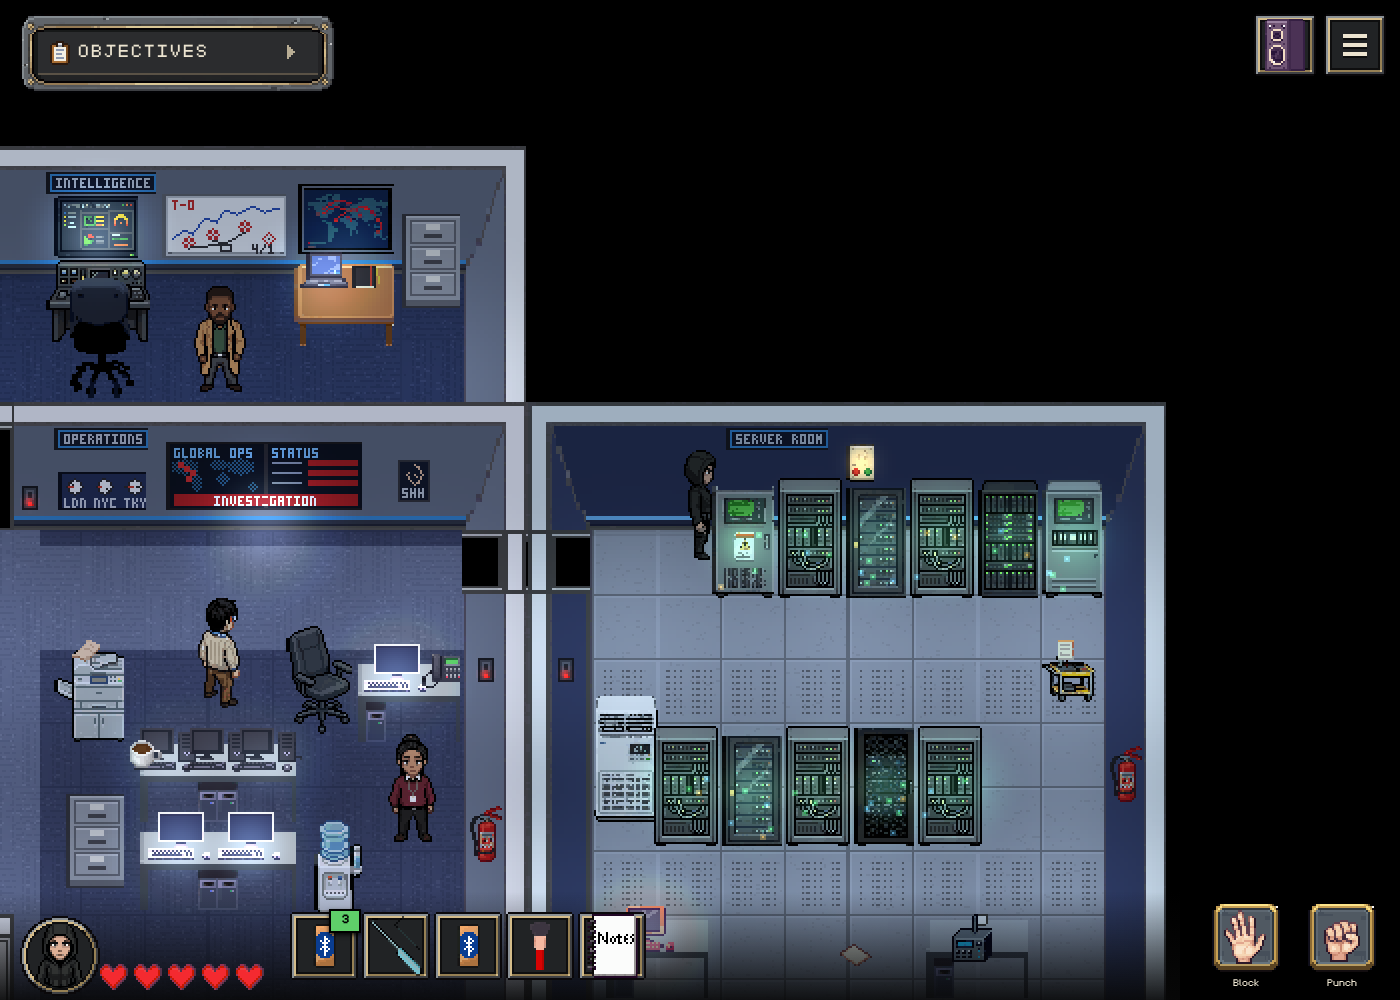
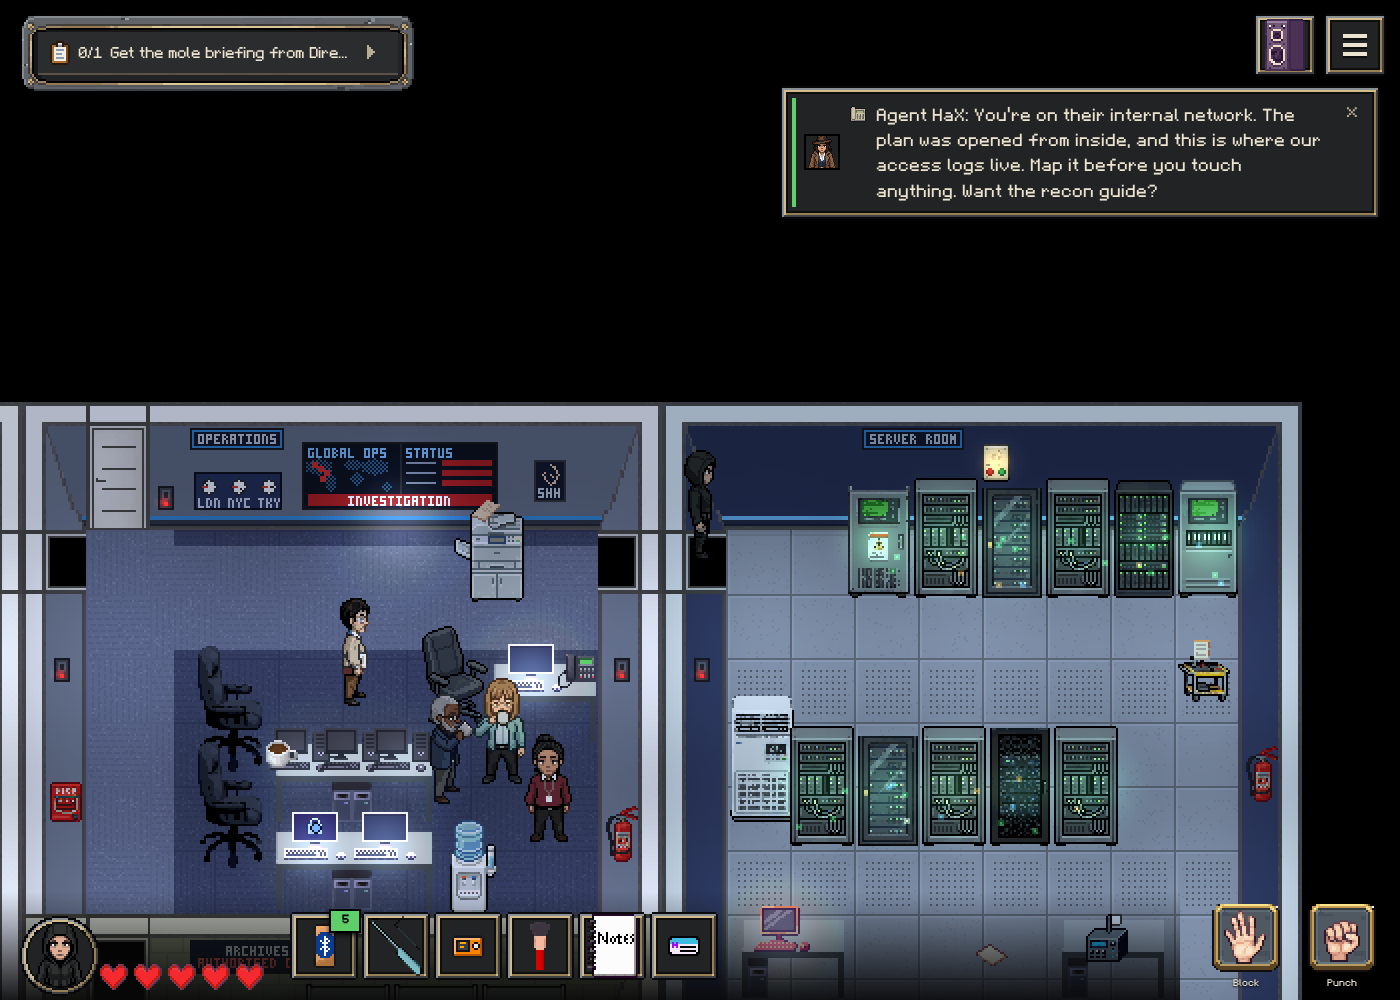
m08 walkthrough: release refresh (F punch / hold Q block, badge printer hands the badge to inventory, Director lab-door refusals, Not yet at the disposition, Nightshade reload resume, relief watch officers, Field Console name; retake server room, add Operations Floor shot)

diff --git a/_labs/safetynet/m08_the_mole.md b/_labs/safetynet/m08_the_mole.md
@@ -69,7 +69,7 @@ You do not need any prior knowledge before you start. The first encoding is taug
 3. \==action: Go north to the Director's office and talk to Director Magnus Netherton==.
 4. \==action: Open your phone whenever you are unsure==. Agent HaX offers hints and field guides as you go.
 
-The mission takes about 60 to 75 minutes. Your progress, evidence and unlocked rooms are kept between sessions.
+The mission takes about 70 minutes. Your progress, evidence and unlocked rooms are kept between sessions.
 
 > Tip: A natural stopping point for a 60-minute class is once you have named the leak to the Director and hold the code for the interrogation suite. The server-room work and the confrontation make a good second session.
 
@@ -86,11 +86,11 @@ Agent HaX's phone is your help system. Open it and you will see options that app
 - Contextual hints, such as **[What does the Director need from me?]**, **[Where would the door logs be?]**, **[How do I get into the server room?]** and **[How do I get into the interrogation suite?]**. HaX answers from where you are in the investigation, so asking again later gives a different answer.
 - Field guides, the in-universe lab sheets. Choose **[I need a field guide.]** and pick the one you want. A guide appears on that menu only once you have reached the challenge it covers. The decoding guide is covered in the stages below.
 
-> Tip: Press **Q** to switch between your fists and your open hand. You need the open hand to use things. If you strike someone by accident, HaX texts you how to put the fists away.
+> Tip: Combat is real but rarely needed. To fight, press **F** (or the Punch button) to punch, and keep pressing for a harder hit. Hold **Q** (or the Block button) to block. HaX reminds you of both the first time you strike someone. Anyone you knock out stays down and will not talk to you again, and you cannot undo it.
 
 > Tip: The locks in this building want exact values. A password is case-sensitive, with no extra spaces. A PIN is four digits. Copy decoded text with the mouse rather than retyping it.
 
-> Warning: The Director wants this done quietly. Accusing someone out loud, being seen picking a locker, or knocking out a bystander gets round the floor, and the person you are hunting hears it. Several choices in the game carry this cost, and the stages below say where. None of them locks you out of finishing the mission.
+> Warning: The Director wants this done quietly. Accusing someone out loud, being seen picking a locker, or knocking out a bystander (including the night-duty officers on the Operations Floor) gets round the floor, and the person you are hunting hears it. Several choices in the game carry this cost, and the stages below say where. None of them locks you out of finishing the mission.
 
 ### Warm-up: Your First CyberChef Recipe {#warm-up}
 
@@ -385,9 +385,11 @@ The lockers hold a hardware token, a boarding-pass stub and a folded sheet, a pa
 <details markdown="1">
 <summary>Nudge</summary>
 
-HaX's **[What does the Director need from me?]** option checks your progress for you and tells you the first thing missing: the audit, a clock, or a confirmed row.
+HaX's **[What does the Director need from me?]** option checks your progress for you and tells you the first thing missing: the audit, a clock, or a confirmed row. The mission task says the same thing: get the suspects to confirm their door rows, then name the leak on evidence.
 
-When you have all three, choose **[I can name the leak, sir.]** and the Director asks four questions: when the plan was opened, which of the three was behind the lab door at that minute, why not the other man who badged through the same door, and why trust Phantom's printout.
+If you go to the Director too early, he turns you away with a different line each time, and the later ones name Vector and Nightshade and say where to find them (Vector on the Operations Floor, Nightshade in the Crypto Lab). Phantom will tell you his own printout is not proof, but he is not on the lab door, so asking him gets you nowhere.
+
+When you have all three, choose **[I can name the leak, sir.]** and the Director asks four questions: when the plan was opened, which of the three was behind the lab door at that minute, why not the other man who badged through the same door, and why a second printout from Phantom agrees with it.
 
 Each question has one answer that follows the evidence. The wrong ones are the tempting readings: the nearest time, the person you already suspect, or a person's desk. **[Let me read it again.]** is free at every step, so use it and go back to the printout.
 
@@ -415,7 +417,7 @@ Once he has the name, he gives you the code for the interrogation suite and poin
 
 **Where:** the Server Room, east of the Operations Floor. **Lock:** an RFID card reader. **Goal:** get in.
 
-![The Server Room, with the server-room badge reader already passed]({{ site.baseurl }}/assets/images/safetynet/m08_the_mole/07-server-room-entry.png)
+![The Server Room, reached with the Printed Server-Zone Badge now in the inventory bar; the night-duty officers stand at the cooler on the Operations Floor]({{ site.baseurl }}/assets/images/safetynet/m08_the_mole/07-server-room-entry.png)
 
 > Hint: The reader wants a card that opens the server zone. The Director has one, and he is not going to hand it over. There is also a quieter route from the lobby that someone left out in the open.
 
@@ -433,7 +435,7 @@ HaX's **[How do I get into the server room?]** option explains the card and the 
 <details markdown="1">
 <summary>Nudge: the Visitor Badge Printer</summary>
 
-At reception, the **Visitor Badge Printer** has a **Printed Server-Zone Badge** in its output tray, behind a four-digit facilities PIN. The PIN is on the sticky note in the Break Room. This route needs no interview and no cloning, and it is a bit of a joke about how the building looks after its own secrets.
+At reception, the **Visitor Badge Printer** is still logged in from the day shift and has printed a server-zone badge, behind a four-digit facilities PIN. The PIN is on the sticky note in the Break Room. A correct PIN prints the **Printed Server-Zone Badge** straight into your inventory; there is no tray to open. This route needs no interview and no cloning, and it is a bit of a joke about how the building looks after its own secrets.
 
 </details>
 
@@ -452,14 +454,14 @@ At reception, the **Visitor Badge Printer** has a **Printed Server-Zone Badge** 
 <summary>Steps: the printer</summary>
 
 1. \==action: Read the Post-It On The Coffee Machine== for the facilities PIN.
-2. \==action: Enter the PIN at the Visitor Badge Printer in the main lobby== and take the **Printed Server-Zone Badge**.
+2. \==action: Enter the PIN at the Visitor Badge Printer in the main lobby==. The **Printed Server-Zone Badge** goes straight into your inventory.
 3. \==action: Use the badge at the Server Room reader==.
 
 </details>
 
 > Warning: The clone only counts once you press Save. If you close the cloner early, the Director's menu offers the clone again and you can redo it. He says plainly that whatever you carry, he did not see it.
 
-Inside the Server Room are the **Evidence Relay Terminal**, where recovered evidence is submitted, a **Server Access Log (excerpt)** left by the rack, and the repository server. The excerpt is an auth-log printout with the account redacted. It gives a terminal and a time, which is a second source for the minute the plan was opened.
+Inside the Server Room are the **Evidence Relay Terminal**, where recovered evidence is submitted, a **Server Access Log (excerpt)** left by the rack, and the **Field Console (Kali)** racked beside the repository server. The excerpt is an auth-log printout with the account redacted. It gives a terminal and a time, which is a second source for the minute the plan was opened.
 
 > Note: The server work has its own sheet, so you can play the rest spoiler-free and tackle the repository server yourself. Open [VM Technical Steps](https://cliffe.github.io/HacktivityLabSheets/labs/safetynet/m08-the-mole-vm-technical-steps/) when you want the hints for it.
 
@@ -505,7 +507,7 @@ The **Personnel Print Job -- Director's Investigation Request** in the Operation
 
 The safe opens in its own framed window and holds five items: the **Portland Intercept**, the **Interrogation Suite Code Card** and a sealed file on each of the three suspects. The card carries the code for the keypad. The pick kit cannot open a PIN lock, so there is no skipping this.
 
-If the Director already named the leak on the evidence, he has given you the code aloud, and **[The suite code again, sir?]** repeats it. You do not need the safe for that.
+If the Director already named the leak on the evidence, he has given you the code aloud, and **[The suite code again, sir?]** repeats it. You do not need the safe for that. The sealed evaluation of Nightshade in the safe is Dr Okafor's; the Director points you to it before you face him, and stops mentioning it once you have it.
 
 **Learn it:** ==action: Read the margin note on the printout aloud== and ask who it blames. Then ask why a policy that tells people to choose their own code ends in this.
 
@@ -541,7 +543,9 @@ HaX's **[Why isn't he in the interrogation room yet?]** option explains why the 
 <details markdown="1">
 <summary>Nudge: the conversation</summary>
 
-The scene cannot be closed once it starts. A RECORDING lamp over the door lights for the scene. You can ask the questions in any order. At the end you choose what happens to the leak. The Detention Disposition Screen on the wall only shows the result.
+The scene cannot be closed once it starts. A RECORDING lamp over the door lights for the scene. You can ask the questions in any order. At the end you choose what happens to the leak. The Detention Disposition Screen on the wall only shows the result. If you reload the page mid-scene, you come back to the list of topics rather than the opening.
+
+The final choice includes **[Not yet. There is something I want to finish first.]**. Nightshade waits, and you can walk out, finish anything else in the building and come back to the same choice. Once you pick an ending, the case closes and anything left undone stays undone.
 
 </details>
 
@@ -551,13 +555,13 @@ The scene cannot be closed once it starts. A RECORDING lamp over the door lights
 Several decisions run through the mission and show up in the ending:
 
 - **Who you accused, and when.** Accusing a suspect aloud, the wrong one or the right one, is recorded. So are apologies. Both appear in the debrief and credits.
-- **Force.** You can knock out colleagues and bystanders. The game records it, and the debrief and credits reflect it.
+- **Force.** You can knock out colleagues and bystanders, including the two night-duty officers on the Operations Floor. The game records it, and the debrief and credits reflect it. A knock-down before you have named the leak can tip the mole off, and the Director's debrief mentions the night watch if you put them down.
 - **The fate.** You can have the leak detained and handed to the police with the case file, or keep them in place as a controlled asset on the Director's signature. They lead to different futures. Neither is scored as right or wrong.
 - **The debrief.** The Director asks about the warning he sealed a year ago. You can say he is not the one at fault, or press him to own the gap. Neither is scored as right or wrong.
 
 </details>
 
-> Warning: The confrontation has no close button. If you want to read anything else first, do it before you walk in.
+> Warning: The confrontation has no close button. If you want to read anything else first, do it before you walk in, or step out at the final choice with **[Not yet.]**.
 
 ### The Debrief {#hints-debrief}
 
@@ -585,10 +589,10 @@ Several decisions run through the mission and show up in the ending:
 | The Server Room reader refuses | Open the cloner at the reader, choose **Director Netherton Keycard** from **Saved**, and emulate it |
 | The Director says "Doors keep their own records. Bring me the door's." | You have not read the Badge Audit Printout yet |
 | The Director says "You've brought me a door. Bring me a clock." | You need the minute the plan was opened; read the Leak Timeline in the Break Room |
-| The Director says "take it to the men who went through that lab door" | You need one of the two people on the lab door to confirm their own row |
+| The Director says "Not yet. A row nobody has owned is only paper." (or a similar line) | You need one of the two people on the lab door, Vector or Nightshade, to confirm their own row. Phantom is not on that door. He rephrases each time you ask |
 | The Director corrects your answer with a line like "Read the door against the minute, not the man." | One of the four answers is wrong; go back to the audit and use "Let me read it again" |
 | The Security Archives door rejects the password | The password is case-sensitive with no spaces; it is on the sticky note in the Break Room |
-| The Visitor Badge Printer rejects the PIN | It is a four-digit facilities PIN, from the sticky note, and is not the safe's code |
+| The Visitor Badge Printer rejects the PIN | It is a four-digit facilities PIN, from the sticky note, and is not the safe's code. A correct PIN hands you the badge straight away |
 | The Director's Safe stays shut | The safe wants the Director's own service number, not a suspect's |
 | The Interrogation Suite keypad refuses and no pick option appears | It is a PIN lock; the code comes from the safe's card or from the Director |
 | The pick stops and the Off-Duty Agent says "Oi. That's not yours." | He saw you; word will get round. Use a suspect's key next time |
@@ -626,6 +630,17 @@ The **Past Leak Investigations** file lists earlier leaks, all accidents or outs
 <summary>The sealed files in the Director's safe</summary>
 
 Three sealed files sit in the safe, one on each suspect, each stopped by an order with the Director's initials on it. Reading them tells you what SAFETYNET knew about each of the three and what it chose to do about it. They also give you something to put to the person at the table.
+
+</details>
+
+<details markdown="1">
+<summary>The night-duty officers on the Operations Floor</summary>
+
+![The Operations Floor once the door audit is found: two night-duty officers seated at the duty desk]({{ site.baseurl }}/assets/images/safetynet/m08_the_mole/10-operations-floor-night-watch.png)
+
+Once you have found the door audit, a relief watch comes on at the duty desk: Julian Sallow (senior duty officer) and Agnieszka Duda (watch log-keeper). They give you no clue, item or task, and they are not suspects. Talk to them if you like. Every so often they walk to the water cooler together, and you may overhear them. Julian's **Duty Officer's Console** shows a short digest of the night's log if he has stepped away without locking it, and a lock screen otherwise. Neither opens anything you need.
+
+They react if trouble starts on the floor and go quiet. If you knock either out, they stay down, the cooler trips stop for good, and the Director's debrief and the credits mention it.
 
 </details>
 
